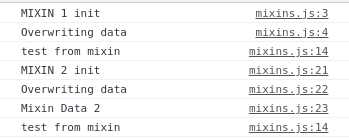
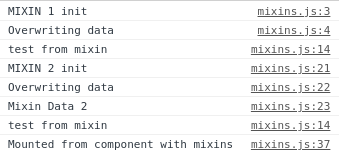
mixins

diff --git a/components/mixins.js b/components/mixins.js
@@ -33,9 +33,14 @@ let myMixin2 = {
 
 Vue.component('mixins', {
   mixins: [myMixin, myMixin2],
+  mounted() {
+    console.log("Mounted from component with mixins")
+  },
   template: `
   <div>
     <h2>Uso de mixins</h2>
+    <p>{{mixinData}}</p>
+    <p>{{mixinData2}}</p>
   </div>
   `
 })

diff --git a/readme.md b/readme.md
@@ -736,9 +736,14 @@ let myMixin2 = {
 
 Vue.component('mixins', {
   mixins: [myMixin, myMixin2],
+  mounted() {
+    console.log("Mounted from component with mixins")
+  },
   template: `
   <div>
     <h2>Uso de mixins</h2>
+    <p>{{mixinData}}</p>
+    <p>{{mixinData2}}</p>
   </div>
   `
 })
